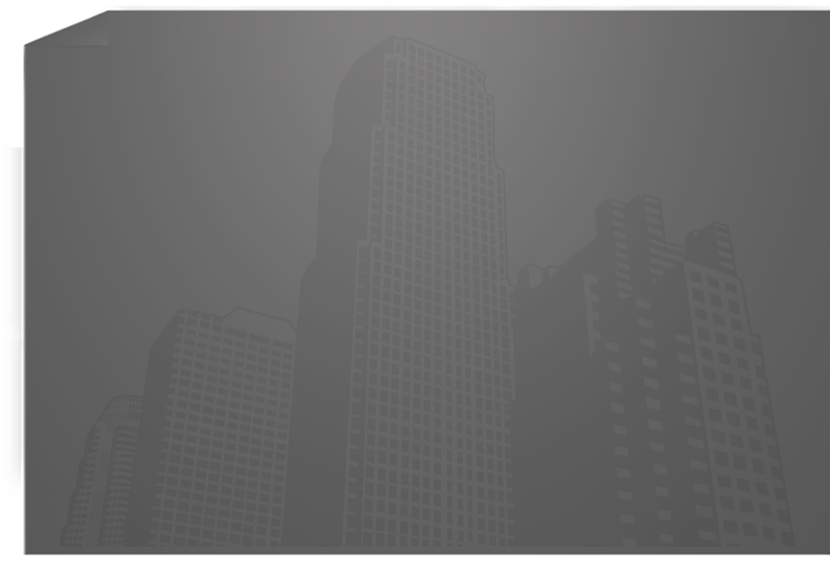
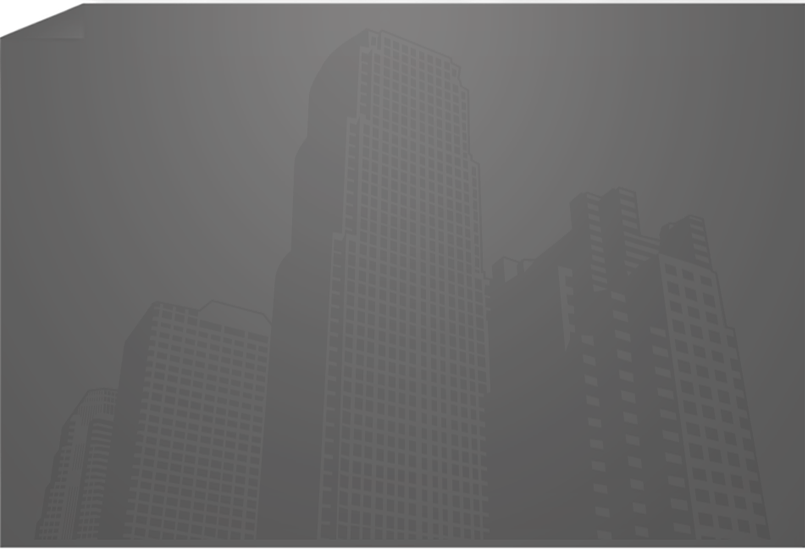
fix content_process page size

Changed region(s): [[0.0, 0.0, 1.0, 1.0]]

diff --git a/seeking/style.less b/seeking/style.less
@@ -1,4 +1,4 @@
-
+/*
 	div, section {
 		outline: 1px dotted red;
 	}
@@ -11,7 +11,7 @@
 	body > .container, header, footer {
 		outline: 3px dashed magenta;
 	}
-
+*/
 body { > section {
 		min-height: 595px;
 		margin-top: 15px;
@@ -441,7 +441,7 @@ section.container { > .top {
 			background: url(images/content_process.png) no-repeat top center;
 			width: 830px;
 			height: 620px;.content {
-				width: 818px;
+				width: 800px;
 				height: 560px;
 				overflow: hidden;.left{
 					width: 440px;
